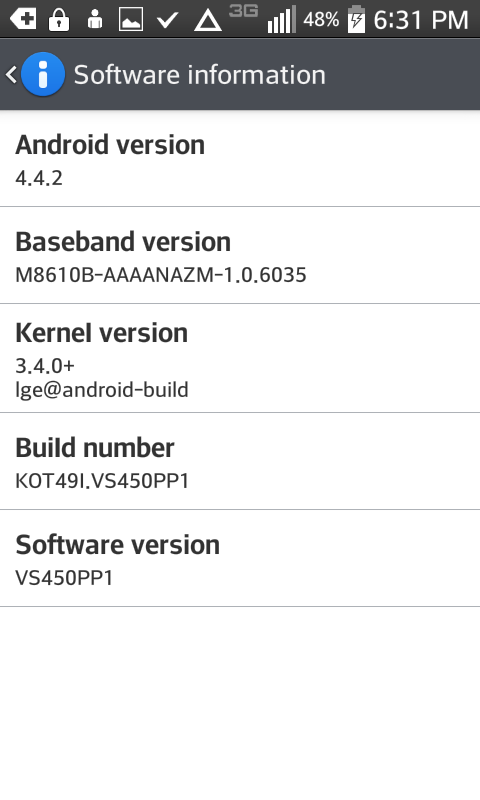
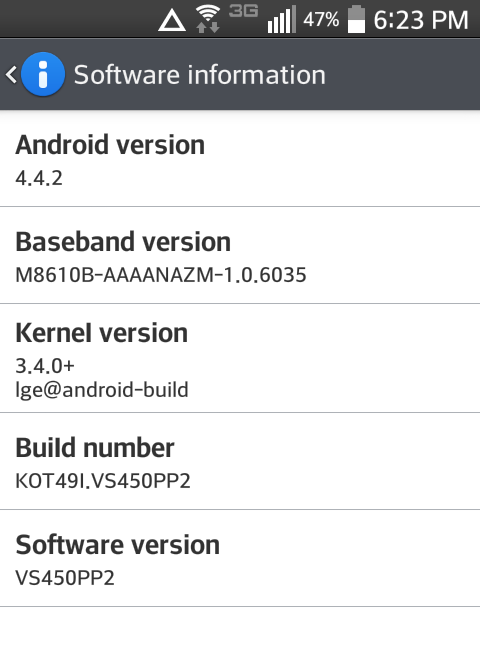
Add images to Exceed 2 flash post. Crop software version screenshots

Changed region(s): [[0.0, 0.0, 1.0, 0.7645], [0.0312, 0.7951, 0.4688, 0.9174]]

diff --git a/_posts/2015-12-24-lg-optimus-exceed-2-rom-flash.md b/_posts/2015-12-24-lg-optimus-exceed-2-rom-flash.md
@@ -7,6 +7,8 @@ tags: [LG, root, Verizon, phone, tech, LG Optimus Exceed 2]
 
 Quick disclaimer: Some of the advice in this post can have potentially negative effects on your device like voiding your warranty or bricking your device. Ultimately it's your decision what you do with your phone, and I am not responsible for those decisions or the results thereof.
 
+![Verizon Setup Wizard]({{ site.url }}/images/exceed-tutorials/flash-before.png){: .center-image}
+
 So, TowelRoot says your phone isn't supported and/or you've confirmed your software version is VS450PP2. Abandon all hope, ye who enter here. Actually, the process isn't all that bad. It took me a few hours the first time to research everything and get it all working, but now that the process is in place, I can take a new phone, flash its software, and have it rooted in about 10 minutes. I'll give you an overview of the necessary steps, then go through each one in detail. You will need a Windows box (physical or virtual, it shouldn't matter) and a USB cable (which comes with the phone).
 
 #### To flash the old software, you must:
@@ -37,9 +39,13 @@ To do this, first shut down the phone. Plug your USB cable into your PC. While t
 
 #### 3. Run the flash tool
 
+![LG Flash Tool Main Screen]({{ site.url }}/images/exceed-tutorials/flash-tool-main.png){: .center-image}
+
 When the software first loads you'll be presented with this window.
 
 You don't need to change anything here. Just click the folder icon and select your KDZ file (remember, it's in the same folder as LGFlashTool2014.exe). Once you do that, the window should look like this:
+
+![Verizon Setup Wizard]({{ site.url }}/images/exceed-tutorials/flash-tool-kdz-selected.png){: .center-image}
 
 Once everything is good, click on CSE Flash. Normal flash does not wipe the phone, and can cause problems like endless boot loops. Don't use it.
 
@@ -48,3 +54,5 @@ On the next screen, click start. Don't click on anything else. Just Start. A Sel
 Finally, the LG Mobile Support Tool will appear. It may warn you about not being able to connect to the server. Just click OK and keep an eye on your phone. You will see the progress bar fill as the software installs. The phone will automatically restart once the install finishes. With any luck, it will boot back to the Verizon setup wizard. The phone will reboot once more after being at this screen for a few seconds. When it's done booting again, feel free to bypass the screen using the super secret combination.
 
 Go ahead and check your software version. It should now read VS450PP1. Congrats, you did it! The phone is now ready to be rooted.
+
+![Verizon Setup Wizard]({{ site.url }}/images/exceed-tutorials/flash-after.png){: .center-image}
